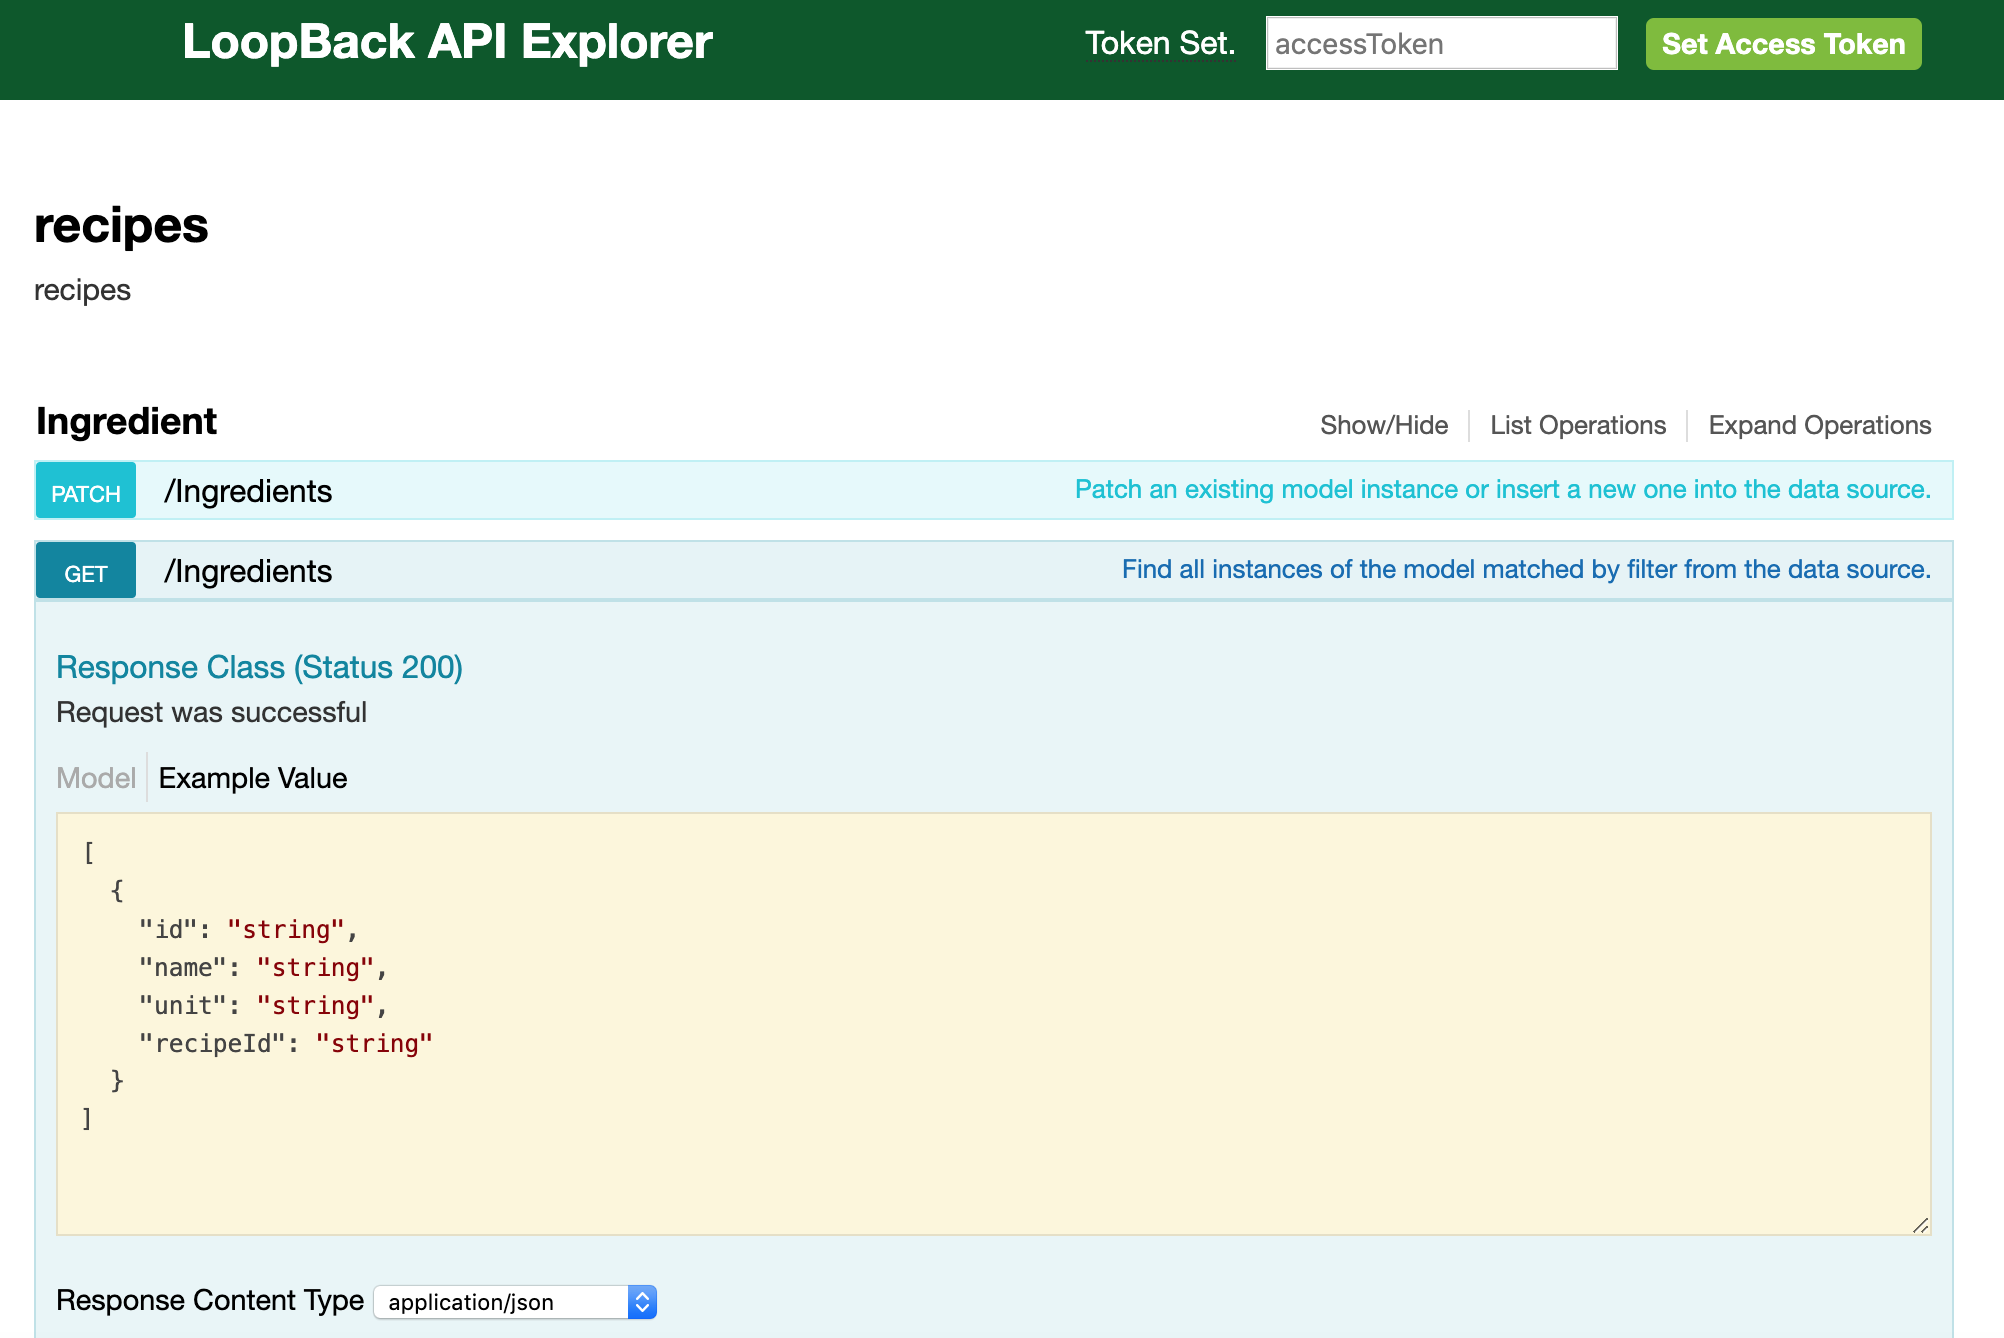
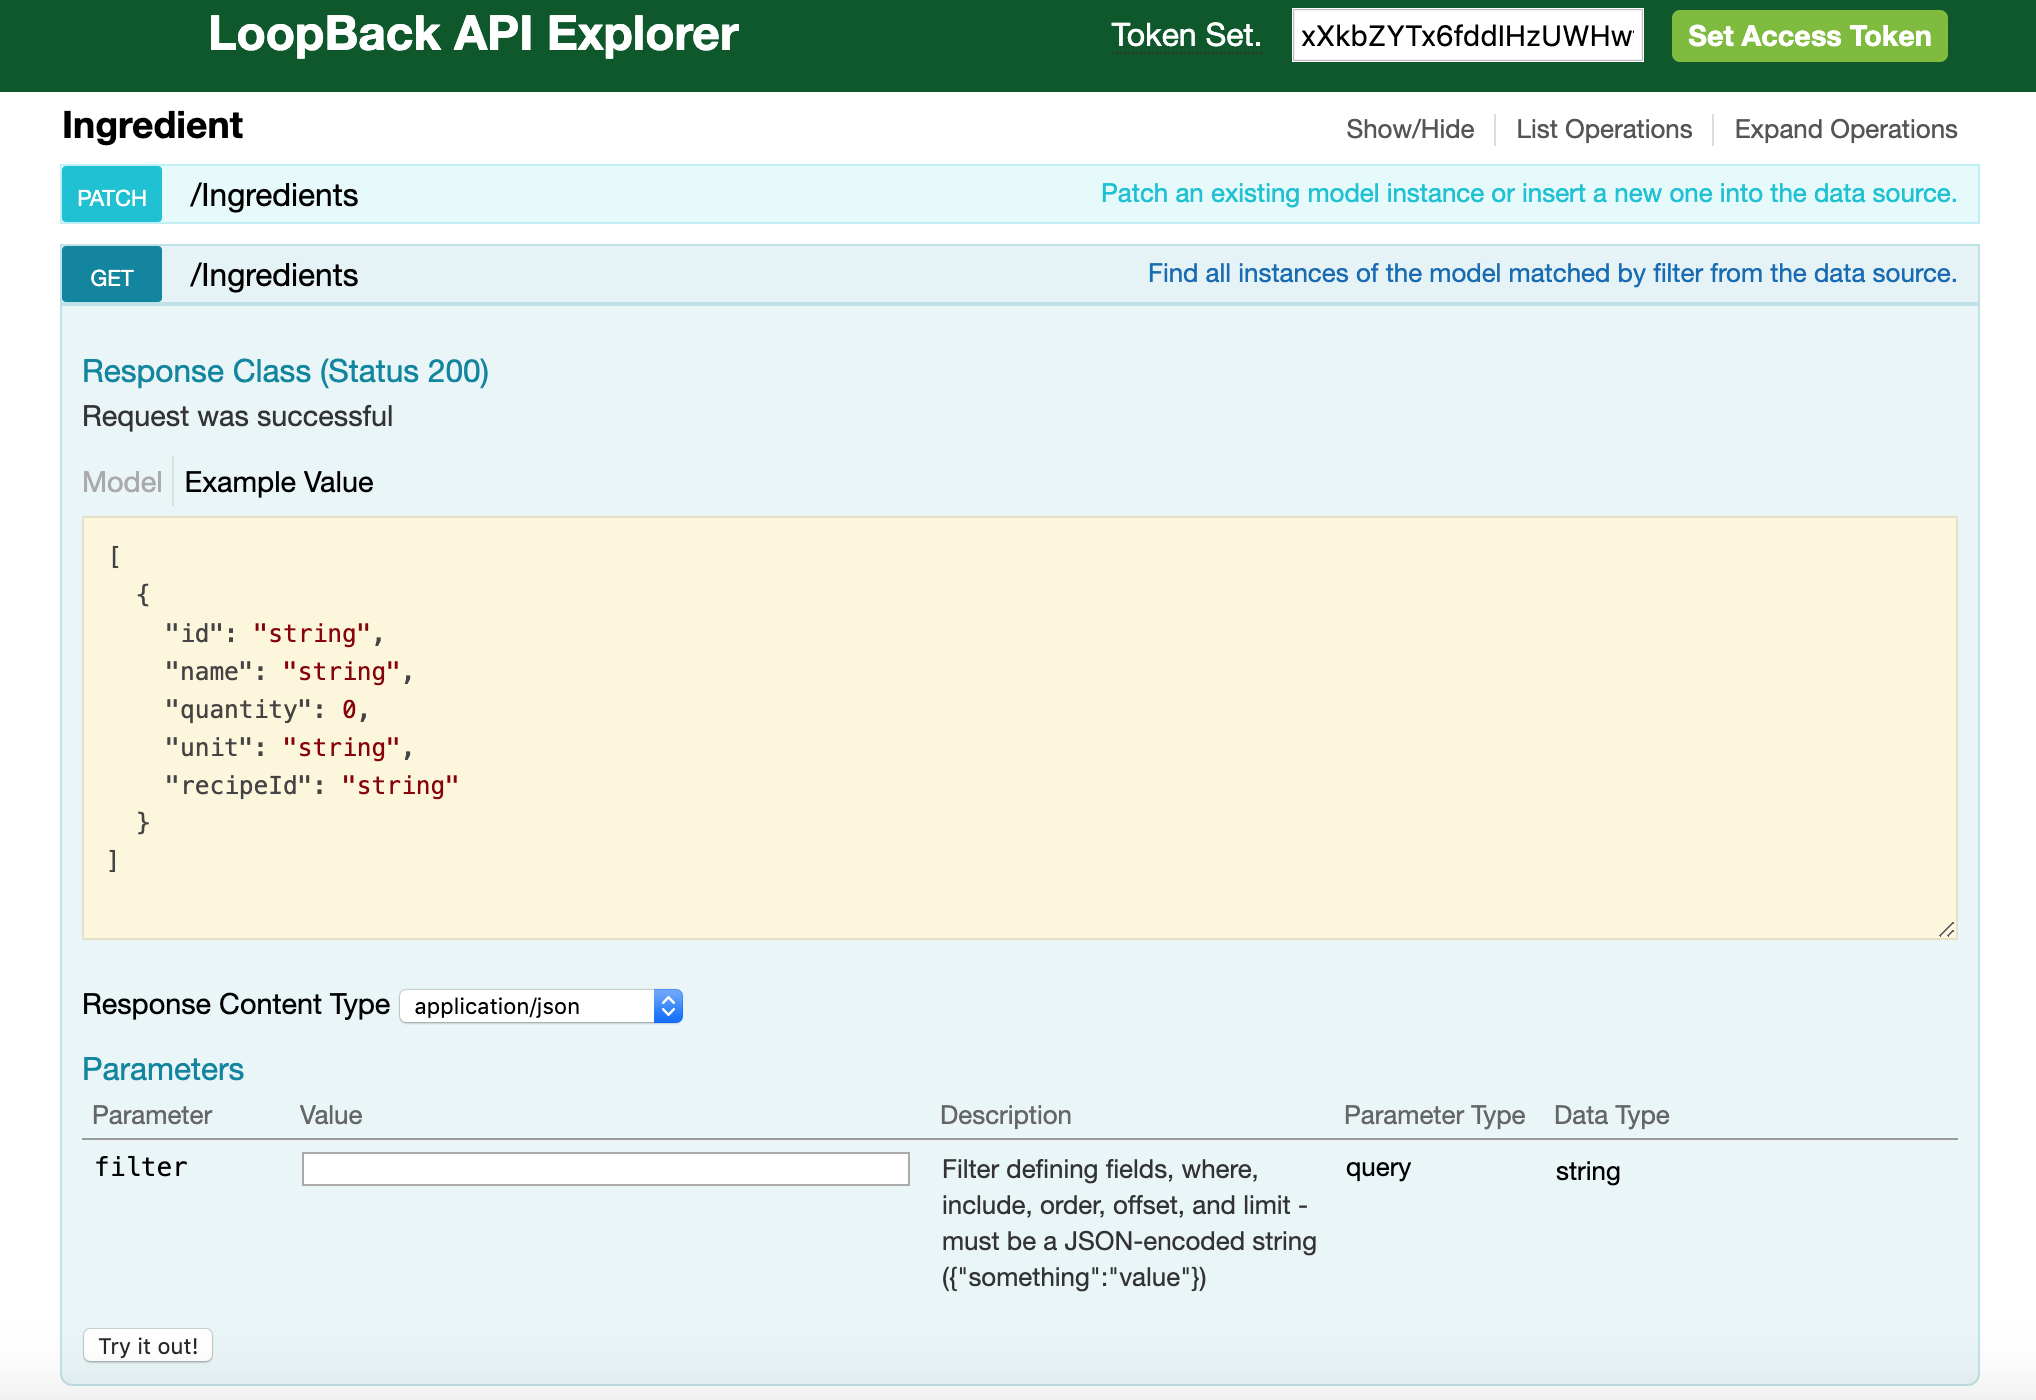
started loopback filters sections

diff --git a/README.md b/README.md
@@ -553,6 +553,13 @@ Enter an empty property name when done.
 
 Let's add another Recipe property.
 Enter an empty property name when done.
+? Property name: quantity
+? Property type: number
+? Required? Yes
+? Default value[leave blank for none]:
+
+Let's add another Recipe property.
+Enter an empty property name when done.
 ? Property name: units
 ? Property type: string
 ? Required? No
@@ -612,6 +619,9 @@ Now open back our Recipe and Ingredient models:
     },
     "name": {
       "type": "string"
+    },
+    "quantity": {
+      "type": "number"
     },
     "unit": {
       "type": "string"
@@ -686,3 +696,30 @@ How does it look in the explorer?
 ![Relation 1](assets/lb-explorer-recipe-with-relation.png)
 
 ![Relation 2](assets/lb-explorer-ingredient-with-relation.png)
+
+As you can see, in the Ingredient model, a new property appeared: recipeId, which is the foreign key.
+
+To create a new ingredient linked with the cookie recipe, we need to add the recipe id in the ingredient property. In my case it will be:
+
+```
+{
+  "name": "Eggs",
+  "quantity": 2,
+  "unit": "piece",
+  "recipeId": "5cac667fbcd943a6690cbf3f"
+}
+```
+![Create Ingredient eggs](assets/lb-explorer-create-ingredient-eggs.png)
+
+Note that in the models (ingredient.json for example), you have an option:
+```
+"idInjection": true,
+```
+This option generates an ID, you can set it to false if you want to set manually the IDs but I would not recommend it.
+
+#### Loopback filters
+
+You can find all the needed documentation about Loopback filters here:
+[https://loopback.io/doc/en/lb3/Querying-data.html](https://loopback.io/doc/en/lb3/Querying-data.html)
+
+![loopback filters](assets/loopback-filters.png)
